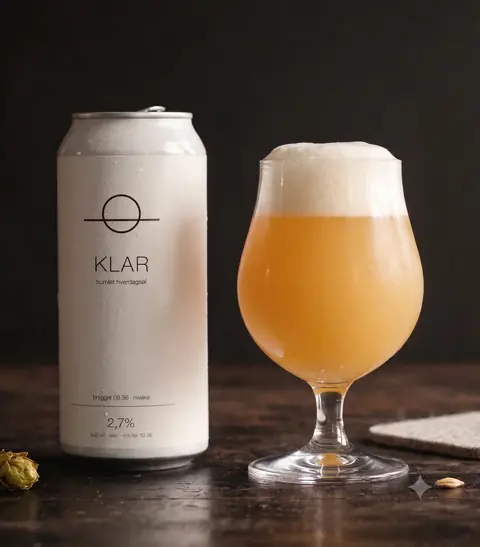
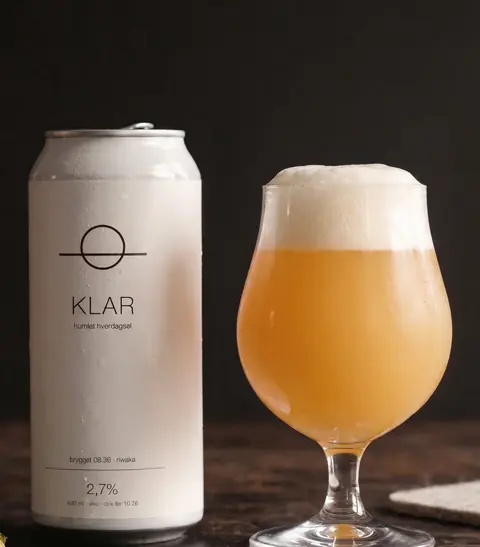
New hero photograph, watermark trimmed, and the fold is one viewport
Hero image replaced. The new source is 1920x2186, already at the hero column's
720/820 aspect, so nothing is cropped for framing; object-position moves to 50%
50% because it is a balanced two-subject shot and an off-centre position would
clip one of them when a narrow window trims the sides.

Its can reads 2,7%, which fixes the strength contradiction the previous hero had.
It also carried a four-pointed generator watermark on the table. Six attempts at
painting it out all read worse than the watermark -- diffusion leaves a
featureless rectangle, donor patches break the table's specular streak, borrowed
texture drags in the barley grain -- so build-images.py trims the frame at y=1890
instead, which drops it at the cost of the hop cone and some foreground. The
source file is left untouched, so a clean re-export only needs the trim deleted.

A second re-shoot moved the watermark somewhere cheaper to crop, but its label
typography came out corrupt: "eko" for "øko", "dnk fer" for "drik før", a space
for the middot. Rejected -- clean Danish on the can beats a cheaper crop.

The photography check is per-asset now and also checks whether the four agree with
each other, which they do not: the hero is 2,7% and the other three are still
2,8%, and the hero's batch line reads 08.36, a ten-year typo. All warnings, since
none of it is fixable in code.

The fold is now exactly one viewport: min-height: calc(100svh - var(--header-h)),
[…]

diff --git a/site/css/klar.css b/site/css/klar.css
@@ -384,11 +384,19 @@ input {
 
 /* --- 1a. hero ------------------------------------------------------------ */
 
+/* Exactly one viewport below the sticky header, so the fold is the fold and one
+   scroll lands on the next section. The handoff's 820px was a fixed number that
+   happened to fill a 900px-tall window; this holds at any height.
+
+   svh, not vh: on mobile vh is the *largest* viewport, so with the address bar
+   showing, 100vh overflows and the next section starts off-screen — which is the
+   opposite of what this is for. min-height rather than height, so a short window
+   lets the lockup push the panel taller instead of clipping it. */
 .hero {
   display: grid;
   grid-template-columns: 1fr 1fr;
   align-items: stretch;
-  min-height: 820px;
+  min-height: calc(100svh - var(--header-h));
 }
 .hero__text {
   display: flex;
@@ -408,6 +416,10 @@ input {
   color: var(--grey-ink);
 }
 .hero__media { overflow: hidden; background: var(--deep); }
+/* <picture> is a block in the reset, so without an explicit height the img's
+   height:100% resolves against auto and the photograph's intrinsic size drives
+   the box instead of the box driving the photograph. */
+.hero__media picture { height: 100%; }
 .hero__media img {
   width: 100%;
   height: 100%;
@@ -936,11 +948,40 @@ input {
 
   /* the two dark spread panels stack, photograph below the text, full-bleed */
   .hero,
-  .pillar { grid-template-columns: minmax(0, 1fr); min-height: 0; }
+  .pillar { grid-template-columns: minmax(0, 1fr); }
   .hero__text { padding: var(--pad-y-panel) var(--pad-x) 0; }
   .pillar__text { padding: var(--pad-y-panel) var(--pad-x) 0; }
-  .hero__media,
+  .pillar { min-height: 0; }
   .pillar__media { aspect-ratio: 4 / 5; margin-top: clamp(56px, 9vw, 80px); }
+
+  /* Stacked, the hero still has to be exactly one viewport, so the two rows
+     divide that height rather than adding up to whatever they please: the text
+     takes what it needs and the photograph fills the remainder. Without this the
+     lockup plus a 4:5 photograph ran to roughly two screens, so the fold was
+     nowhere near the fold. The 34svh floor stops the photograph collapsing to a
+     sliver on a short window — past that the panel grows instead. */
+  /* Flex, not grid, for the stacked hero — and the reason is worth keeping.
+     The panel's height comes from min-height, which leaves the container's height
+     *indefinite*; a grid `1fr` row then resolves against its own content rather
+     than the free space, so the photograph's intrinsic height kept inflating the
+     panel roughly 200px past the viewport. `minmax(0, 1fr)` does not help: the
+     zero applies to the track's minimum, not to how fr resolves. Flex measures
+     free space from the container's used height, so `flex: 1 1 0` hands the
+     photograph exactly what the text leaves and no more.
+
+     min-height on the media is the floor: on a short window the panel grows
+     rather than squeezing the photograph out of existence. */
+  .hero {
+    display: flex;
+    flex-direction: column;
+  }
+  .hero__text { padding: clamp(40px, 6vw, 64px) var(--pad-x) 0; }
+  .hero__media {
+    flex: 1 1 0;
+    aspect-ratio: auto;
+    min-height: 120px;
+    margin-top: clamp(32px, 5vw, 56px);
+  }
   /* the mirror loses its meaning in one column, so both read text-first */
   .pillar--mirror .pillar__media { order: 2; }
 

diff --git a/site/index.html b/site/index.html
@@ -78,9 +78,10 @@
         <span class="lockup__wordmark">Klar</span>
         <span class="lockup__descriptor">humlet hverdagsøl</span>
       </h1>
+      <!-- 440 ml removed from the spec row; the volume still appears on both can
+           renders, in the summary's "kassen" row and in the footer legal strip -->
       <ul class="hero__spec">
         <li><span data-bind="abvVol">2,7% vol.</span></li>
-        <li>440 ml</li>
         <li>økologisk malt</li>
         <li>kold hele vejen</li>
       </ul>

diff --git a/site/tools/build-images.py b/site/tools/build-images.py
@@ -23,17 +23,30 @@ OUT = ROOT / "site" / "assets" / "img"
 # Aspects come from the handoff's 1440 composition. The hero and HVERDAGSØL
 # panels are each half of the page (720) by min-height 820; the freshness photo
 # cards are half the 1280 content width less the 32 gap (624) by 380.
+# A `trim` entry removes something from the source before the aspect crop. Only
+# the hero needs one: its generator left a four-pointed watermark on the table at
+# x 1636-1731, y 1896-1990, baked into the pixels. Cutting the frame at y=1890
+# drops it, at the cost of the hop cone and some foreground.
+#
+# A later re-shoot put the watermark somewhere cheaper to crop, but its label
+# typography came out corrupt — "eko" for "øko", "dnk fer" for "drik før", and a
+# space for the middot in the batch line — so it was rejected. Clean Danish on the
+# can beats a cheaper crop.
+#
+# Painting it out would be preferable in principle, but nothing in PIL does
+# content-aware fill convincingly on textured wood: diffusion leaves a
+# featureless rectangle, donor patches break the table's specular streak, and
+# both read worse than the crop. The source file is left untouched, so a clean
+# re-export only needs this trim deleted.
 JOBS = [
     # hero, right half of the fold
-    # the new hero source is already at the display aspect, so this crop is a
-    # no-op and the whole frame is used; the position matters only where the
-    # container aspect differs (mobile, very wide viewports)
-    ("haze", "haze-klar.png", 720 / 820, (0.50, 0.55), [480, 720, 960, 1280]),
+    ("haze", "haze-klar.png", 720 / 820, (0.50, 0.50), [480, 720, 960, 1280],
+     (0, 0, 1920, 1890)),
     # HVERDAGSØL, mirrored to the left half
-    ("kitchen", "hero-kitchen-klar.png", 720 / 820, (0.38, 0.74), [480, 720, 960, 1280]),
+    ("kitchen", "hero-kitchen-klar.png", 720 / 820, (0.38, 0.74), [480, 720, 960, 1280], None),
     # the two freshness cards
-    ("bike", "bike-klar.png", 624 / 380, (0.50, 0.42), [420, 640, 880, 1248]),
-    ("doorstep", "doorstep-klar.png", 624 / 380, (0.52, 0.62), [420, 640, 880, 1248]),
+    ("bike", "bike-klar.png", 624 / 380, (0.50, 0.42), [420, 640, 880, 1248], None),
+    ("doorstep", "doorstep-klar.png", 624 / 380, (0.52, 0.62), [420, 640, 880, 1248], None),
 ]
 
 
@@ -57,10 +70,14 @@ def main():
     OUT.mkdir(parents=True, exist_ok=True)
 
     total_src = total_out = 0
-    for name, filename, aspect, pos, widths in JOBS:
+    for name, filename, aspect, pos, widths, trim in JOBS:
         src = SRC / filename
         total_src += src.stat().st_size
-        base = crop_to_aspect(Image.open(src).convert("RGB"), aspect, pos)
+        im = Image.open(src).convert("RGB")
+        if trim:
+            im = im.crop(trim)
+            print(f"{name}: trimmed to {im.size[0]}x{im.size[1]} before cropping")
+        base = crop_to_aspect(im, aspect, pos)
 
         for width in widths:
             if width > base.width:

diff --git a/site/README.md b/site/README.md
@@ -203,6 +203,29 @@ is a fair but slightly broader paraphrase; and the same paper independently
 supports the can-over-bottle argument (hop aroma compounds accumulate in crown
 cap liners, while cans retain them), which the page does not currently make.
 
+**11. The fold is exactly one viewport.** `min-height: calc(100svh - var(--header-h))`
+on the hero, replacing the handoff's fixed 820px — which happened to fill a 900px
+window and nothing else. Requested after handoff, so that one scroll lands on the
+next section at any window height. `svh` rather than `vh`, because `vh` is the
+*largest* viewport on mobile: with the address bar showing, `100vh` overflows and
+the next section starts off-screen, which is the opposite of the point.
+
+Stacked, the hero is **flex, not grid**, and the reason is worth keeping. Its
+height comes from `min-height`, which leaves the container indefinite — and a grid
+`1fr` row then resolves against its own content rather than the free space, so the
+photograph's intrinsic height inflated the panel about 200px past the viewport.
+`minmax(0, 1fr)` does not fix it: the zero is the track's minimum, not how `fr`
+resolves. Flex measures free space from the used height, so `flex: 1 1 0` hands the
+photograph exactly what the text leaves.
+
+Verified exact at 1440×900, 1680×1200 and 375×812. At 320×640 the panel runs 62px
+over, because the photograph hits its 120px floor and the panel grows rather than
+squeezing the image away — a deliberate floor, not a miss.
+
+**12. `440 ml` is gone from the hero spec row**, requested after handoff. The
+volume still appears on both can renders, in the summary's `kassen` row and in the
+footer legal strip.
+
 **11. There is a delivery fee.** 39 kr per delivery, requested after handoff —
 the handoff's summary has no such line. It is itemised as `fragt` in the summary
 rather than folded into the per-can price, and it **is** included in the headline
